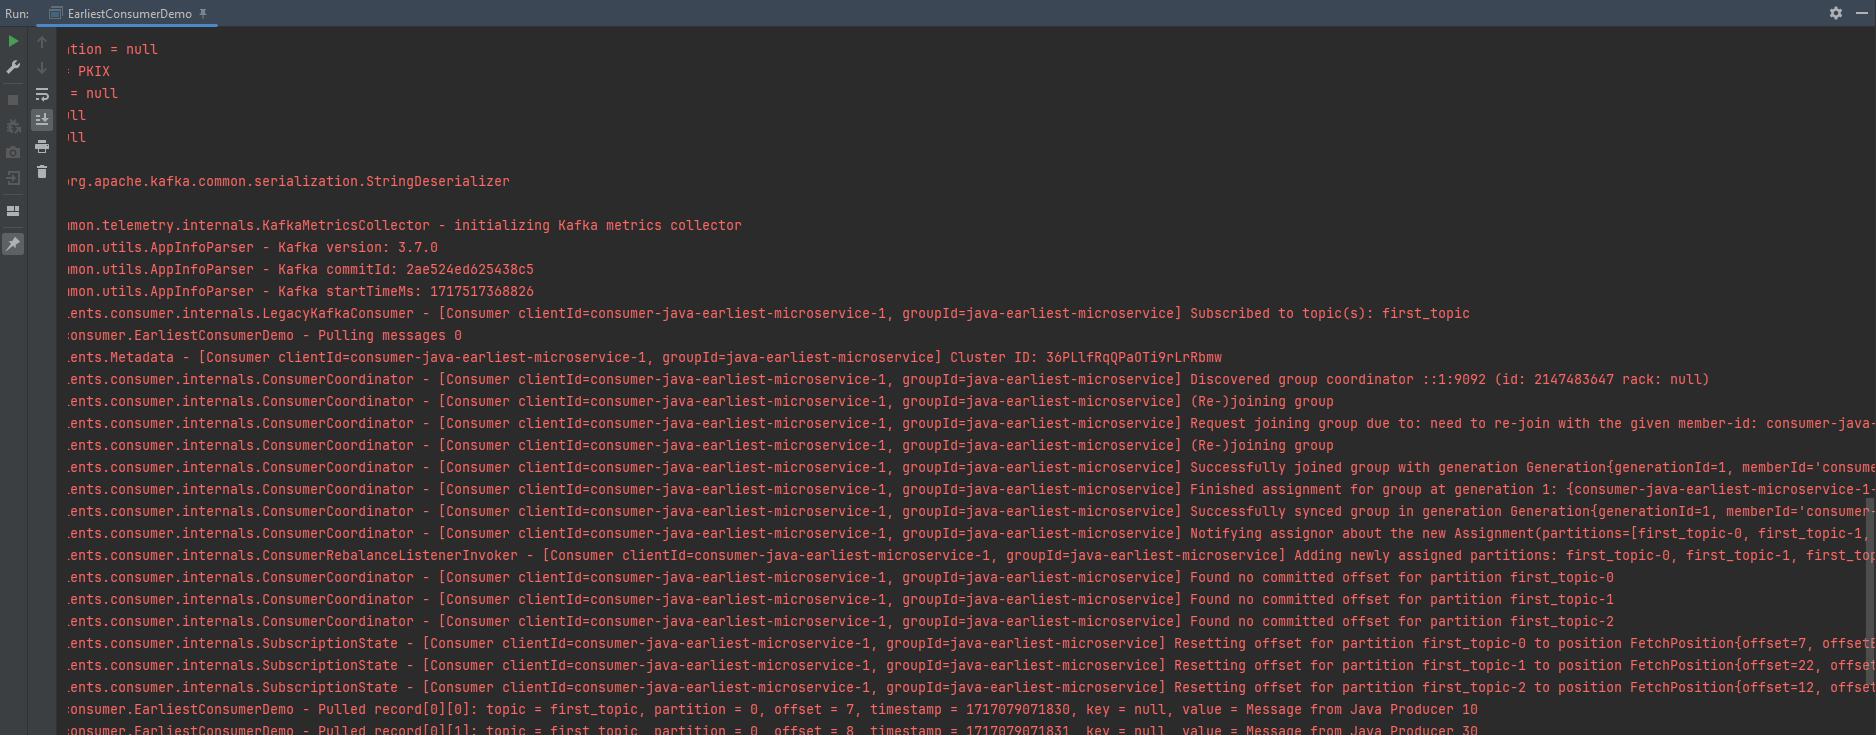
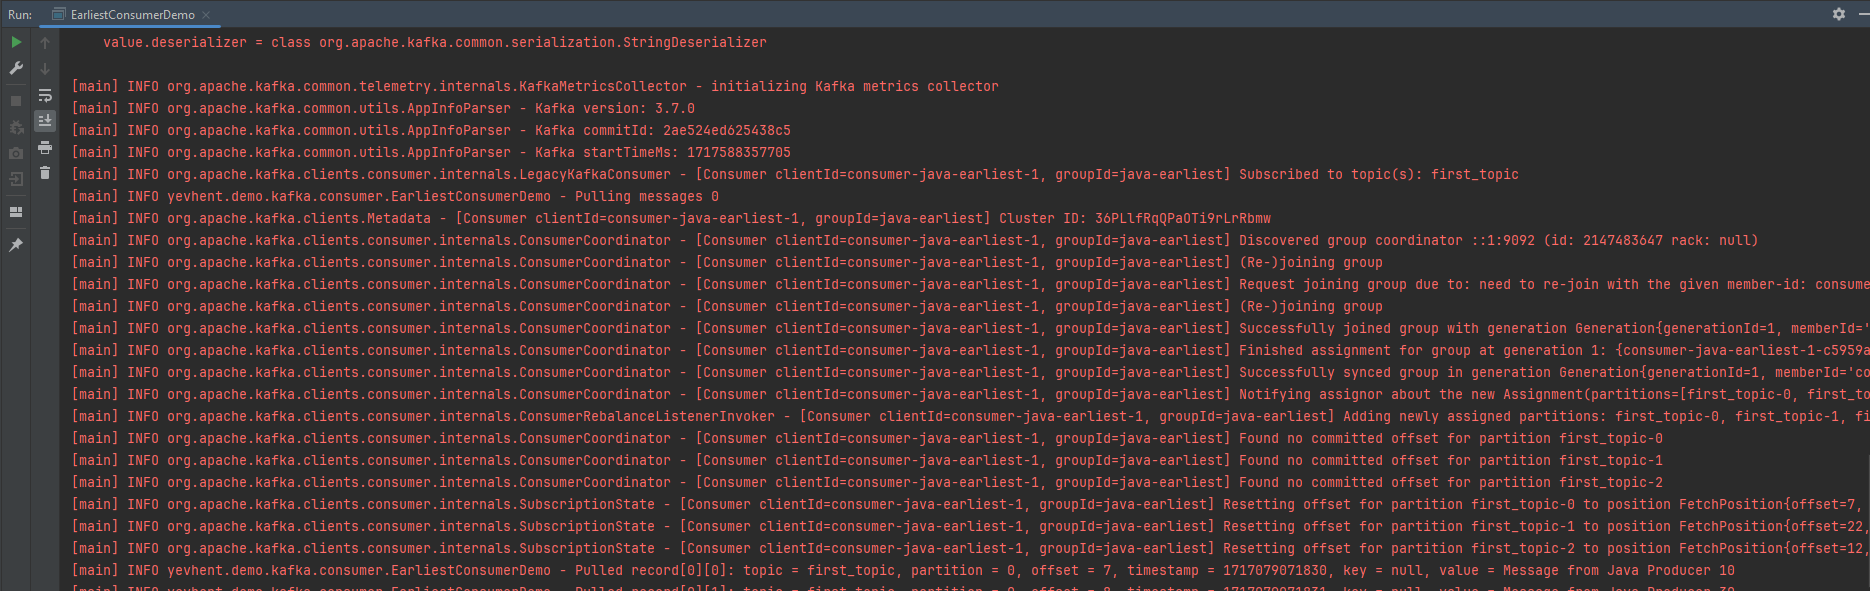
refactor implementation 7

Changed region(s): [[0.0, 0.0, 1.0, 1.0]]

diff --git a/Apache-Kafka-Basics/src/main/java/yevhent/demo/kafka/consumer/EarliestConsumerDemo.java b/Apache-Kafka-Basics/src/main/java/yevhent/demo/kafka/consumer/EarliestConsumerDemo.java
@@ -1,16 +1,13 @@
 package yevhent.demo.kafka.consumer;
 
-import org.apache.kafka.clients.admin.AdminClientConfig;
 import org.apache.kafka.clients.consumer.ConsumerConfig;
 import org.apache.kafka.clients.consumer.ConsumerRecord;
 import org.apache.kafka.clients.consumer.ConsumerRecords;
 import org.apache.kafka.clients.consumer.KafkaConsumer;
-import org.apache.kafka.clients.producer.KafkaProducer;
 import org.apache.kafka.common.serialization.StringDeserializer;
 import org.slf4j.Logger;
 import org.slf4j.LoggerFactory;
 import yevhent.demo.kafka.KafkaProperty;
-import yevhent.demo.kafka.producer.SimpleEventProducerDemo;
 
 import java.time.Duration;
 import java.util.List;
@@ -49,14 +46,14 @@ public class EarliestConsumerDemo {
         properties.setProperty(ConsumerConfig.BOOTSTRAP_SERVERS_CONFIG, KafkaProperty.BOOTSTRAP_SERVERS);
         properties.setProperty(ConsumerConfig.KEY_DESERIALIZER_CLASS_CONFIG, StringDeserializer.class.getName());
         properties.setProperty(ConsumerConfig.VALUE_DESERIALIZER_CLASS_CONFIG, StringDeserializer.class.getName());
-        properties.setProperty(ConsumerConfig.GROUP_ID_CONFIG, "java-earliest-microservice");
+        properties.setProperty(ConsumerConfig.GROUP_ID_CONFIG, "java-earliest");
         properties.setProperty(ConsumerConfig.AUTO_OFFSET_RESET_CONFIG, AUTO_OFFSET_RESET_EARLIEST);
         properties.setProperty(ConsumerConfig.MAX_POLL_RECORDS_CONFIG, "10");
 
         KafkaConsumer<String, String> consumer = new KafkaConsumer<>(properties);
         consumer.subscribe(List.of(KafkaProperty.DEFAULT_TOPIC));
 
-        for (int i = 0; i < 3; i++) {
+        for (int i = 0; i < 2; i++) {
 
             LOGGER.info("Pulling messages " + i);
 
@@ -67,8 +64,7 @@ public class EarliestConsumerDemo {
                 LOGGER.info("Pulled record[{}][{}]: topic = {}, partition = {}, offset = {}, timestamp = {}, key = {}, value = {}",
                         i, j++, record.topic(), record.partition(), record.offset(), record.timestamp(), record.key(), record.value());
             }
-
-
         }
+        consumer.close();
     }
 }
